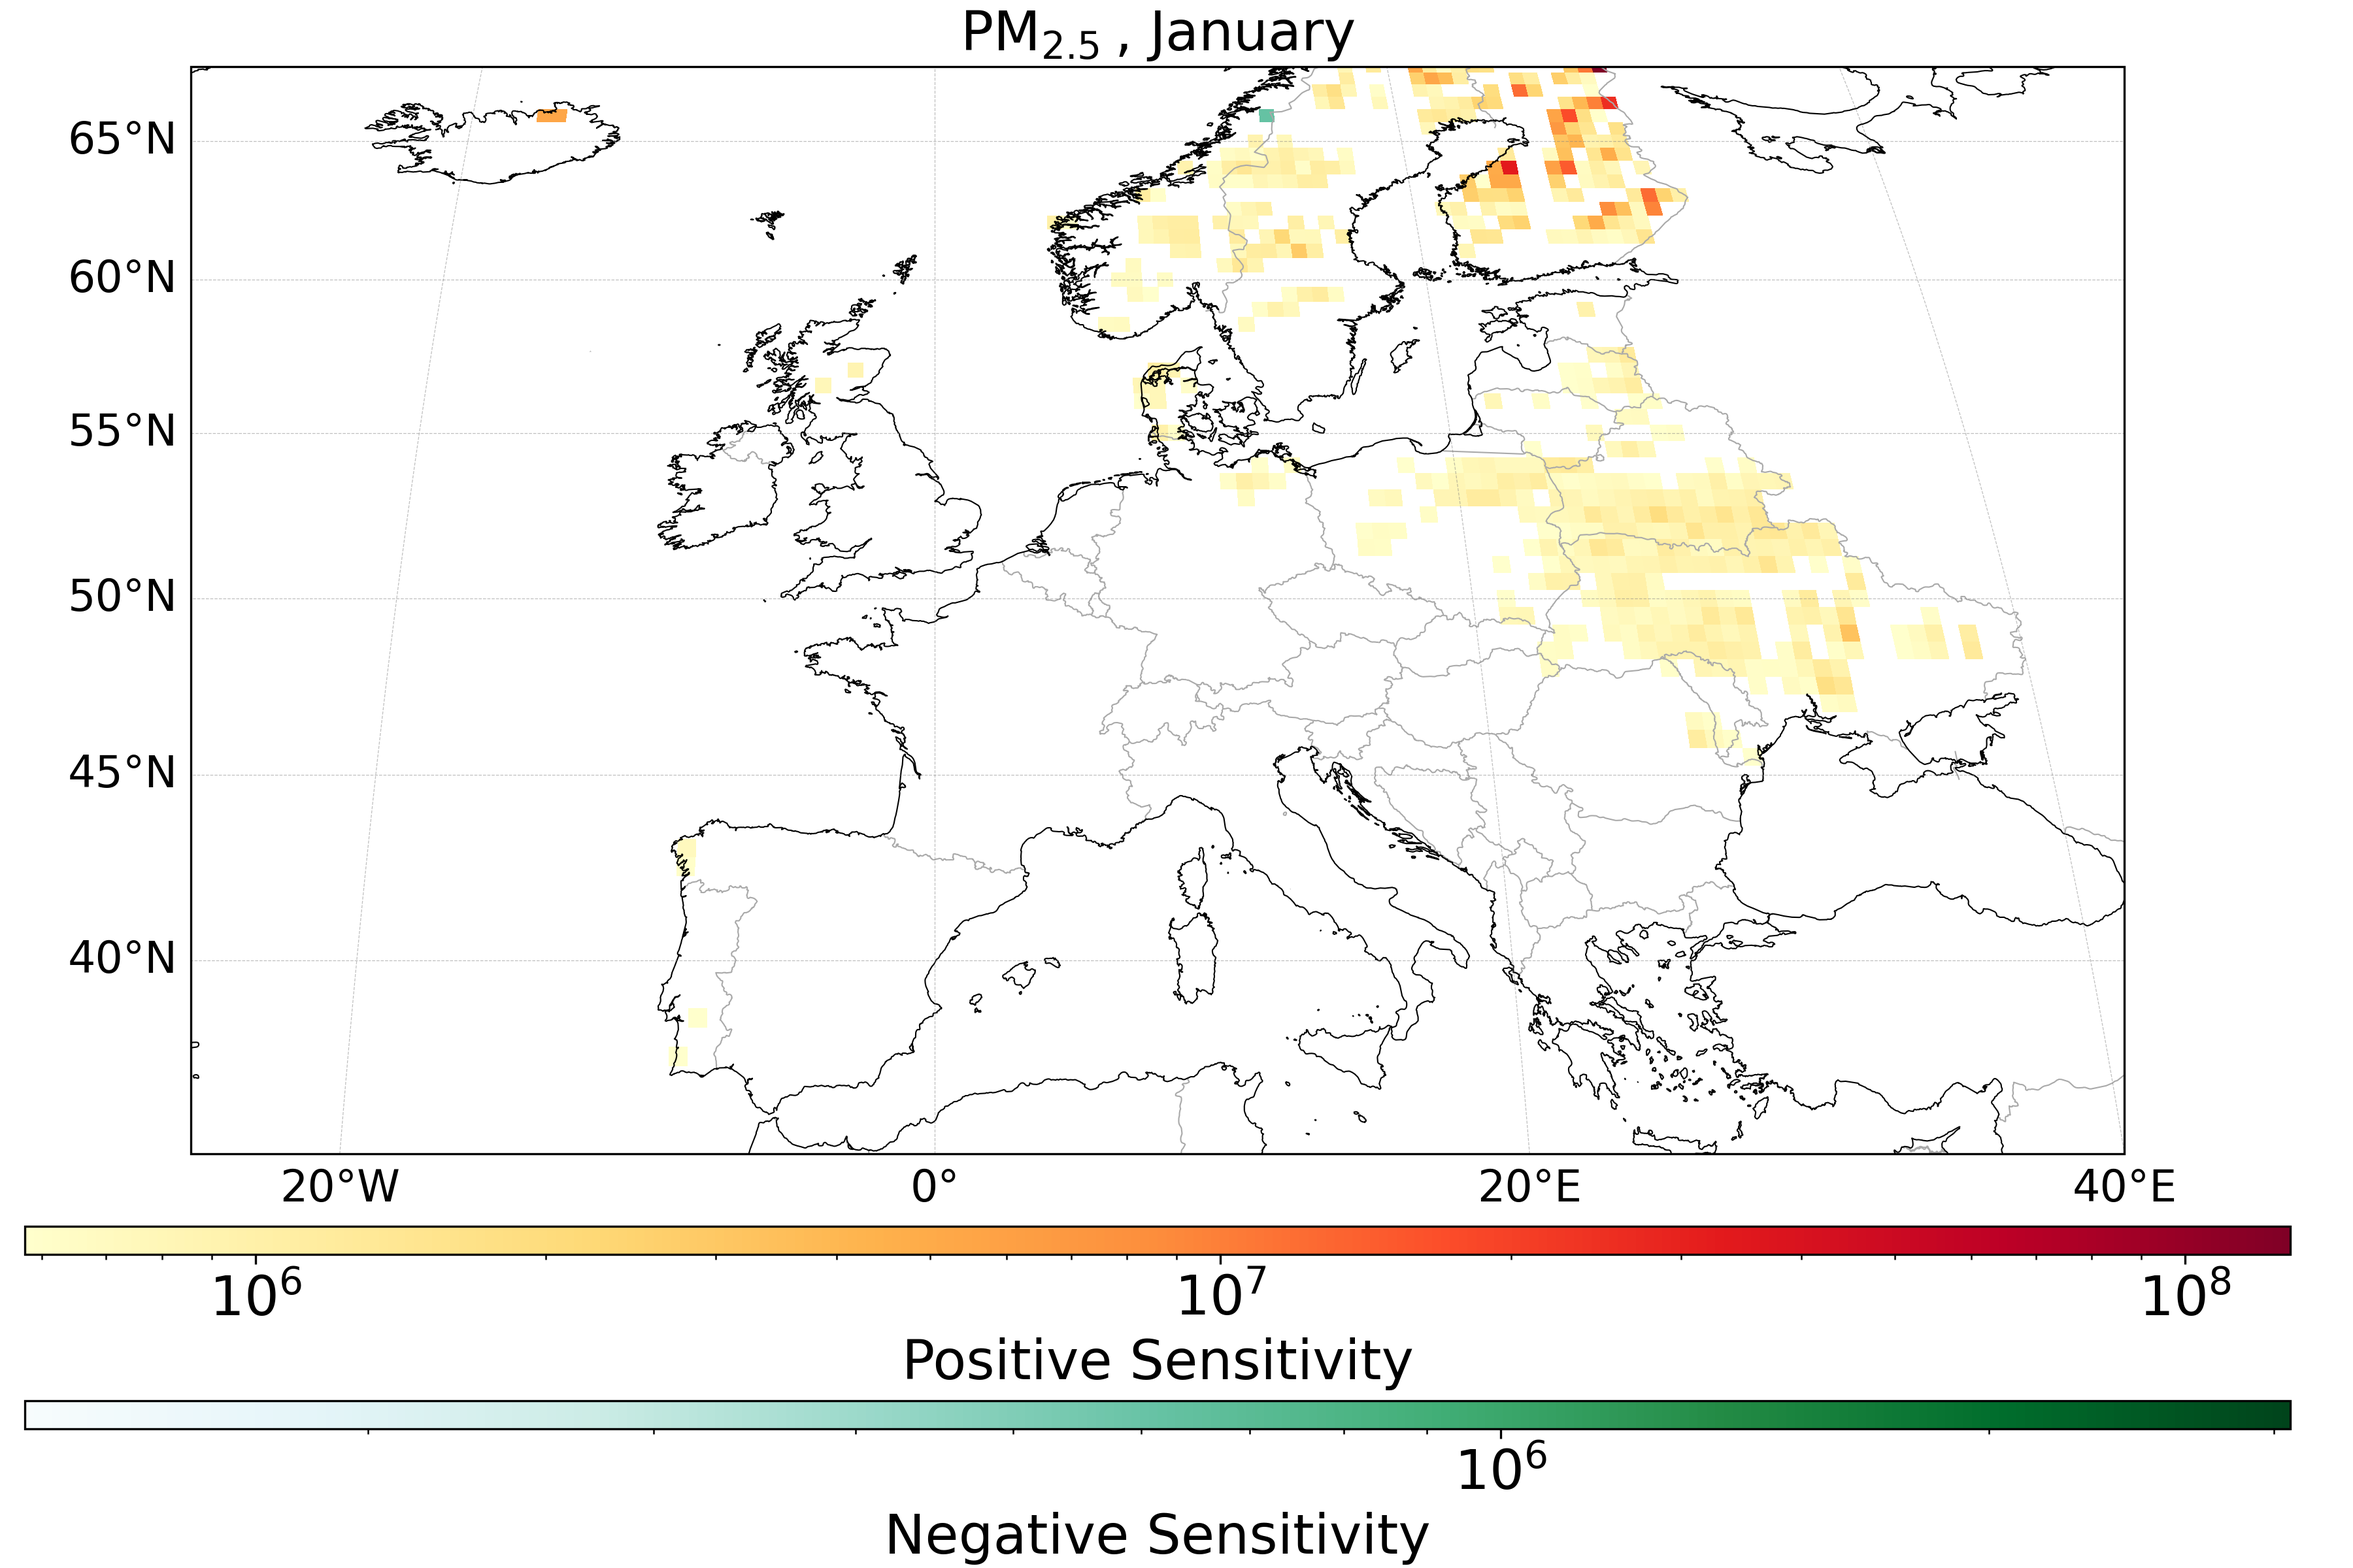
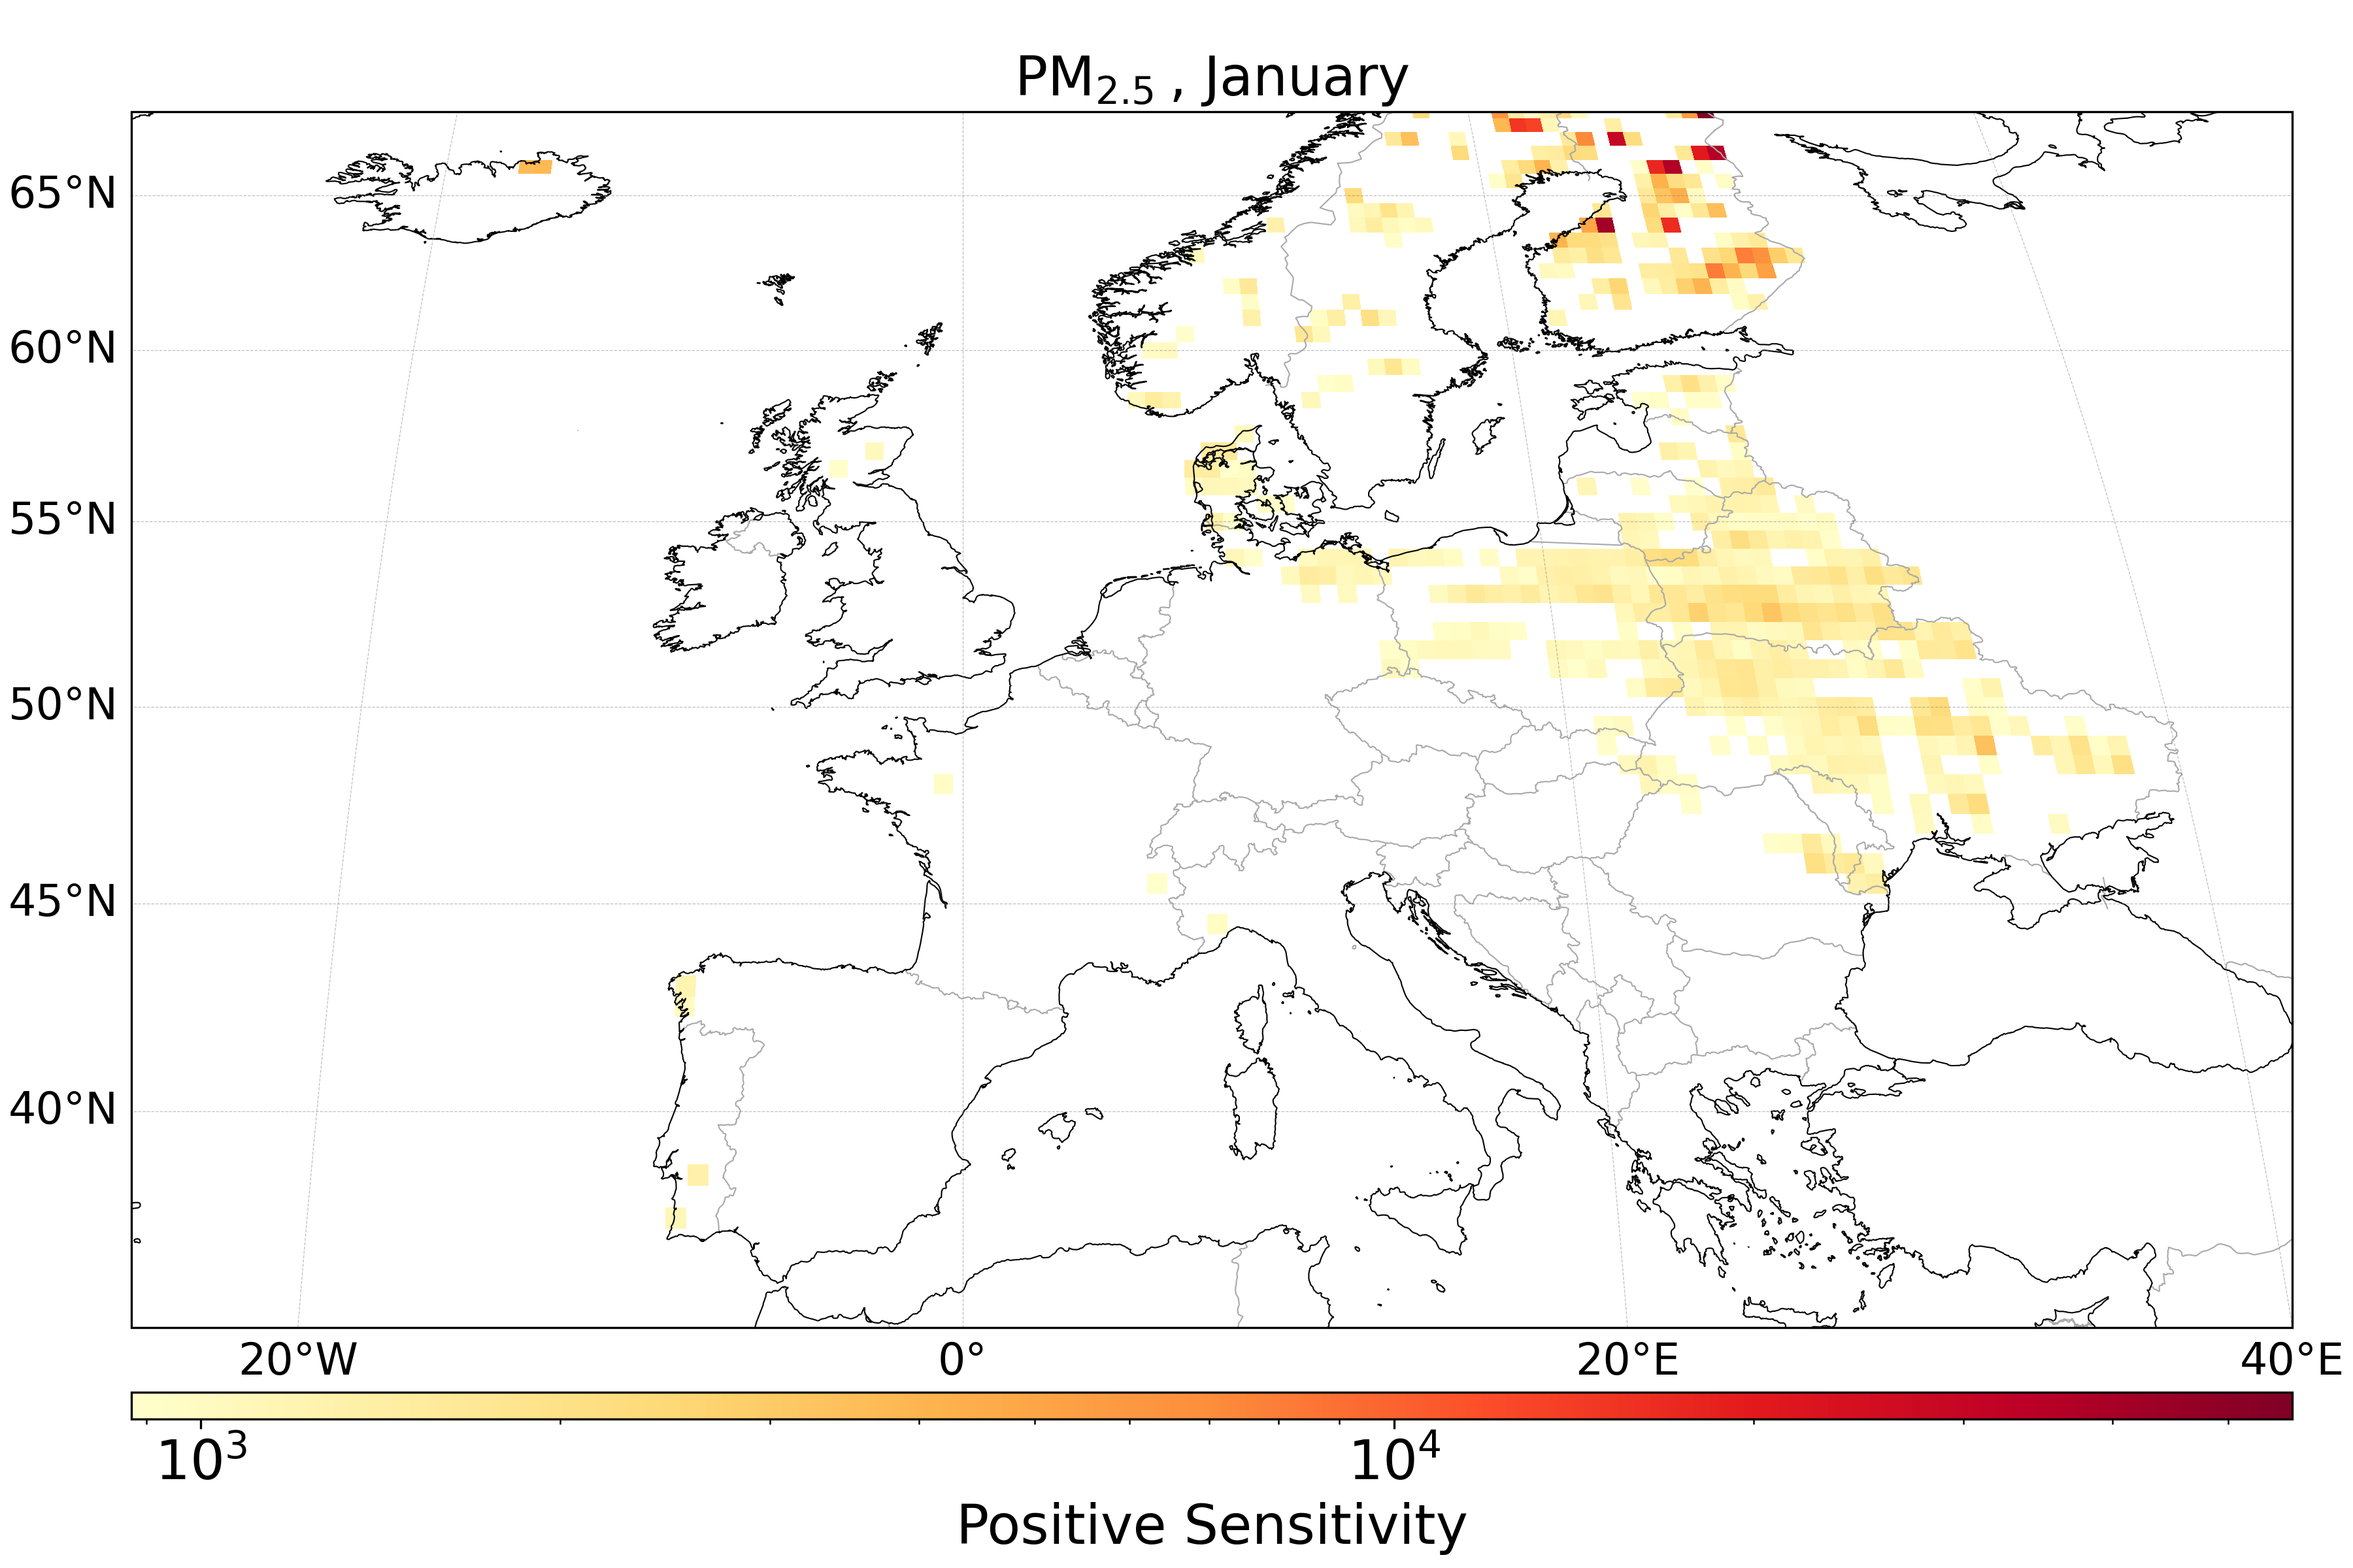
changed pm25 to plot through no2

diff --git a/division_processing/sensitivity_log_europe.py b/division_processing/sensitivity_log_europe.py
@@ -121,7 +121,7 @@ monthname = ["January", "July"]
 types = {
     "Aerosol": {
         "PM25": {
-            "emittants": ["nvPM"],
+            "emittants": ["NO2"],
             "unit": 1e-3,
             "name": r'PM$_{2.5} \:$'
         },
